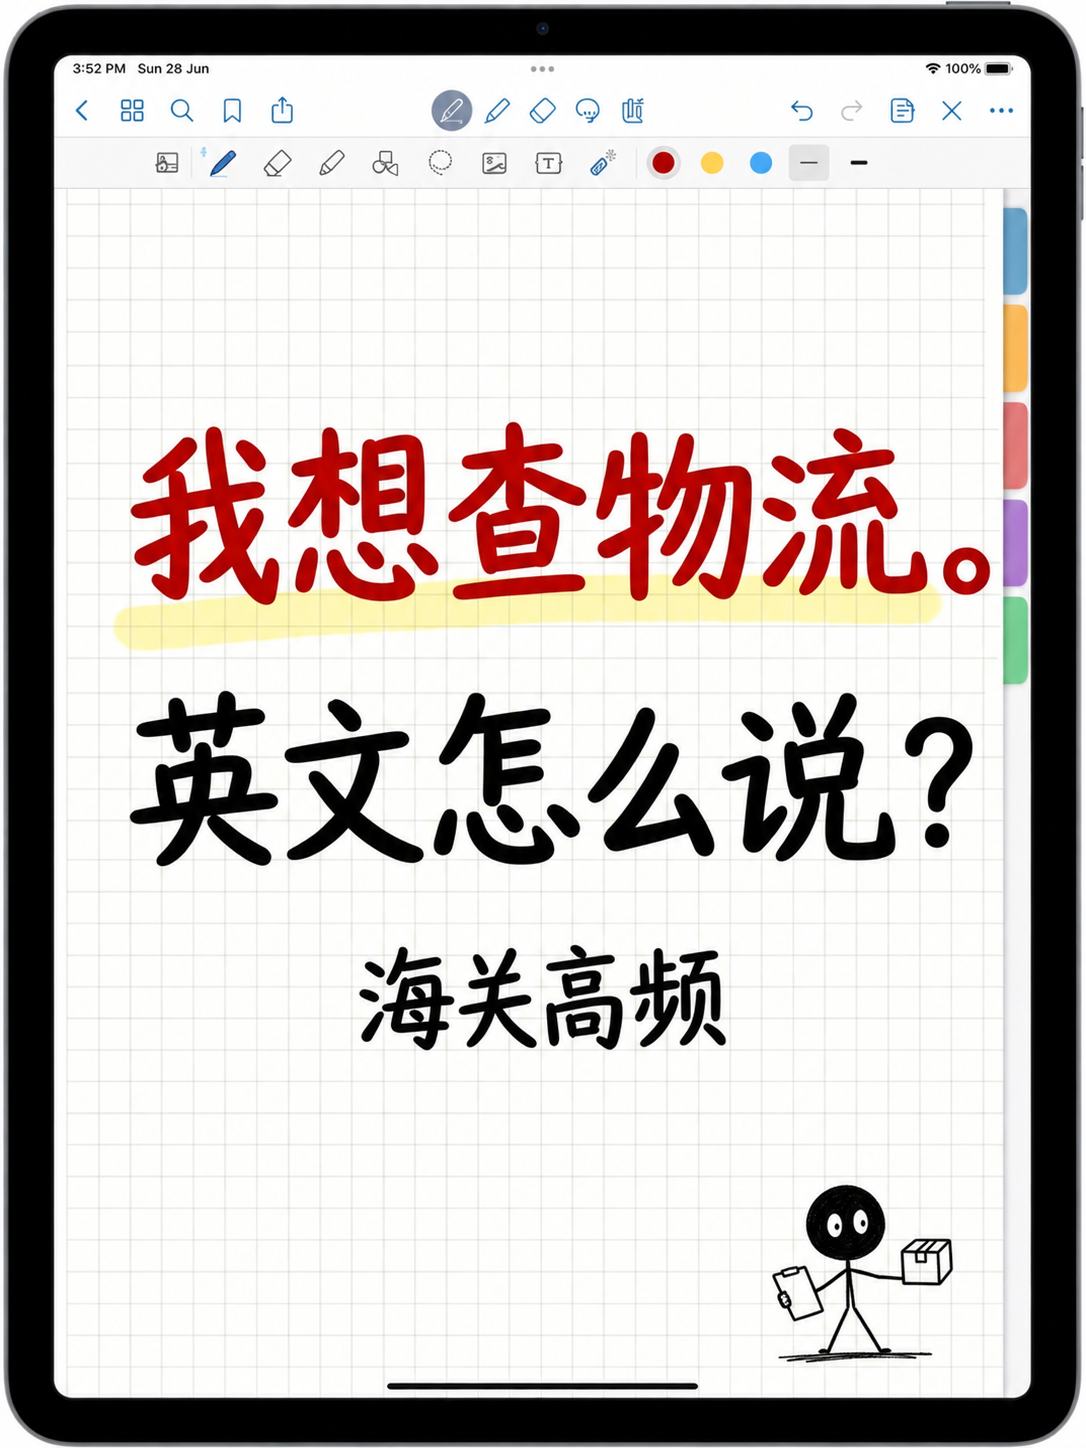
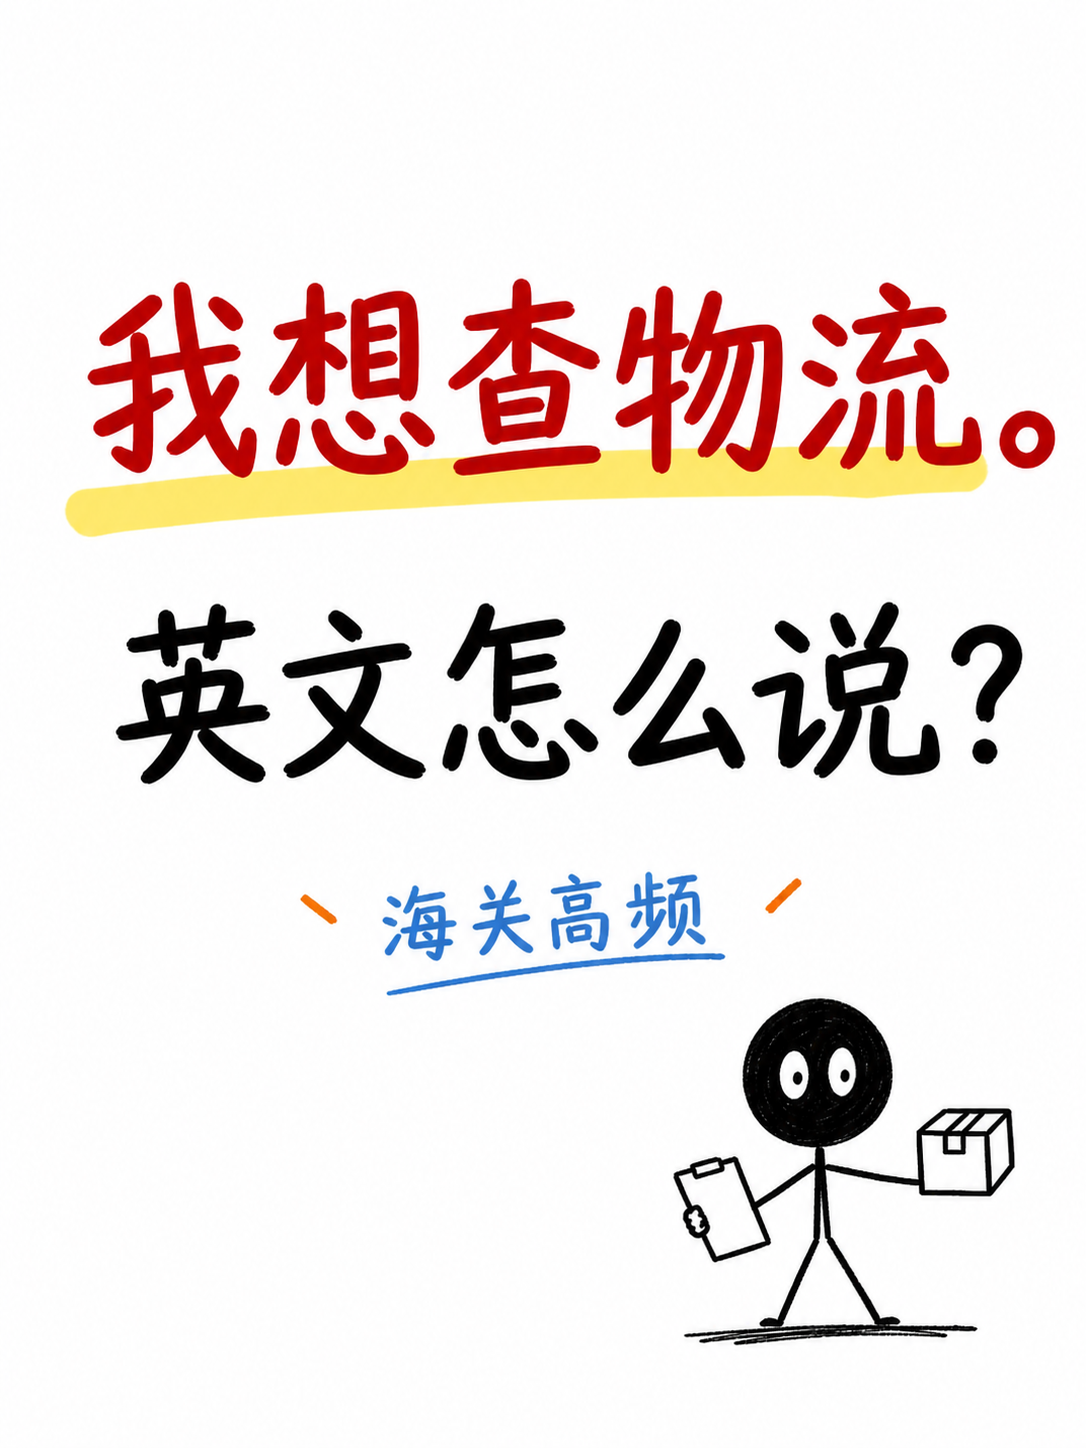
feat: align note cards to unified hand-drawn style

diff --git a/publish-report.md b/publish-report.md
@@ -1,13 +1,13 @@
 # 小红书笔记网页发布报告
 
-- 生成时间：`2026-08-23T03:23:38.810051Z`
[1 lines of base64/hex data omitted]
+- 生成时间：`2026-08-23T03:41:12.343422Z`
[1 lines of base64/hex data omitted]
 - 站点：小红书英语口语｜22 篇生活高频合集
 - 笔记：22 篇
 - 图片：110 张 PNG 原图 + 110 张 WebP 预览
-- 原图大小：143041506 bytes
-- WebP 大小：10354744 bytes
-- 预览节省：92.76%
+- 原图大小：141292741 bytes
+- WebP 大小：10353078 bytes
+- 预览节省：92.67%
 - 访问遮罩：已启用（非真实认证）
 
 ## 变更
@@ -25,8 +25,8 @@
 | 2 | `02-可以少放辣吗` | 可以少放辣吗？英文怎么说 | 小帮英语 | 5 | 8113467 | 584782 |
 | 3 | `03-今天几点关门` | “今天几点关门？”英文怎么说？ | — | 5 | 6884790 | 672400 |
 | 4 | `04-你周末有空吗` | 你周末有空吗？英文怎么说 | 小帮英语 | 5 | 7999397 | 566700 |
-| 5 | `05-我想查物流` | “我想查物流。”英文怎么说？ | — | 5 | 7491033 | 663806 |
-| 6 | `06-我家停电了` | “停电了”英文怎么说？ | — | 5 | 7285893 | 640084 |
+| 5 | `05-我想查物流` | “我想查物流。”英文怎么说？ | — | 5 | 6577714 | 669176 |
+| 6 | `06-我家停电了` | “停电了”英文怎么说？ | — | 5 | 6450447 | 633048 |
 | 7 | `07-文件打不开` | 文件打不开？英文这样说 | 卖煎饼的司机 | 5 | 7411859 | 488420 |
 | 8 | `08-有大一号吗` | 小了想换大一号，英文其实很简单 | 小帮英语 | 5 | 7151407 | 455410 |
 | 9 | `09-需要预约维修` | 家里东西坏了，怎么和房东约维修时间？ | 卖煎饼的司机 | 5 | 7235824 | 493052 |
